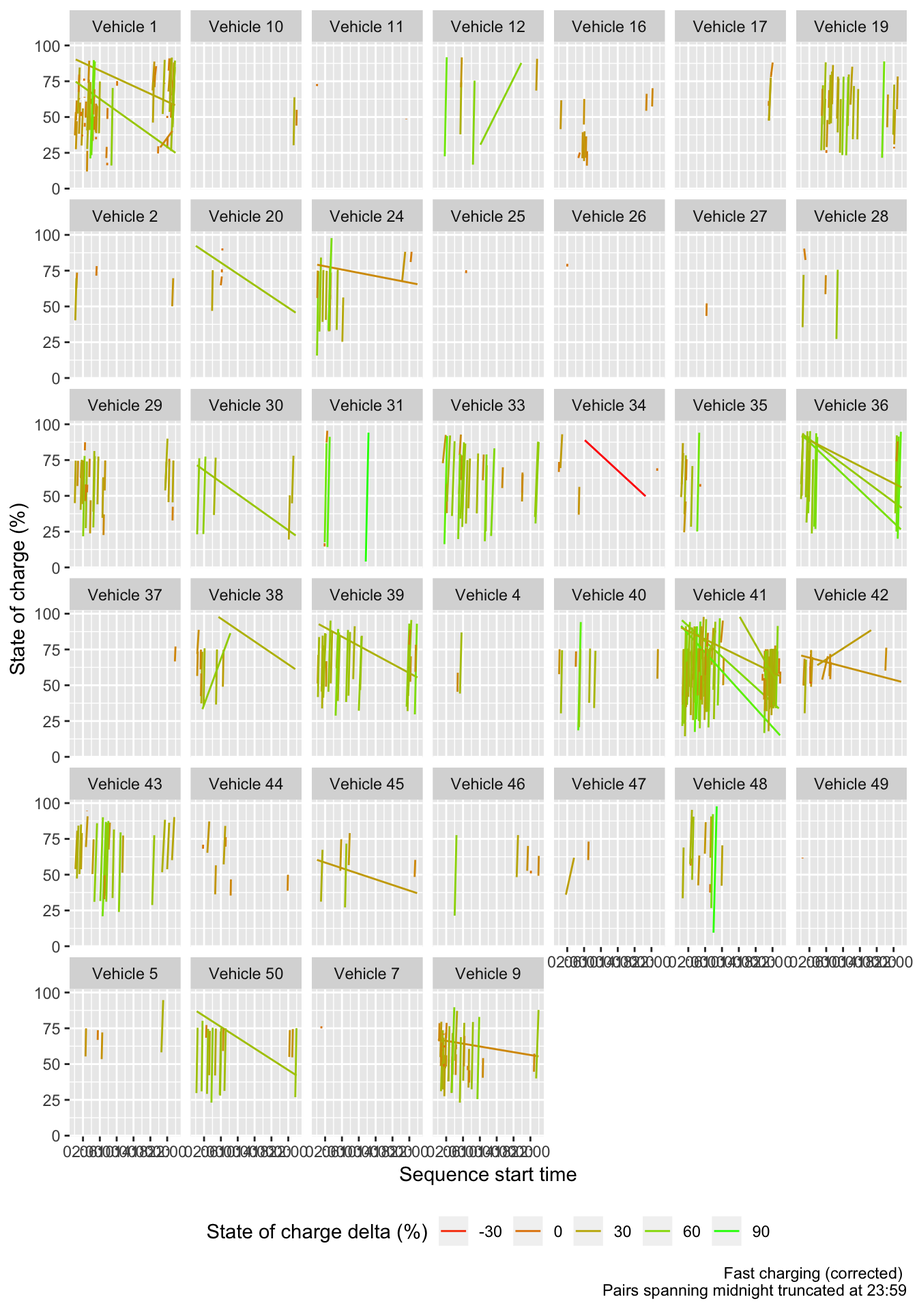
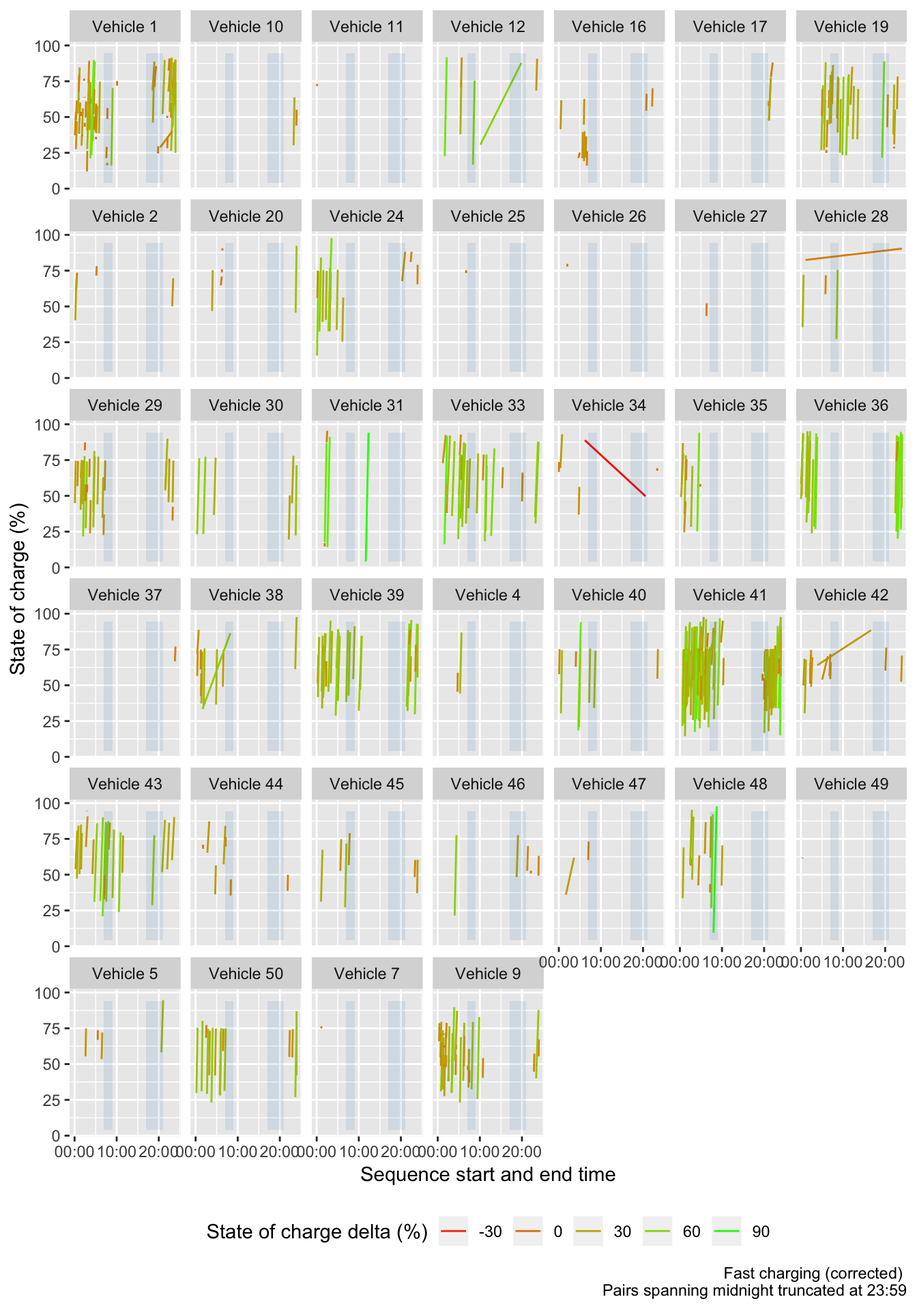
moved coding of peakPeriod; fixed debug plots to correctly truncate chage events that span midnight

diff --git a/reports/fullReport/EVBB_report_v1.html b/reports/fullReport/EVBB_report_v1.html
@@ -303,7 +303,7 @@ div.tocify {
 <h1 class="title toc-ignore">Analysis of electric vehicle usage patterns in New Zealand</h1>
 <h3 class="subtitle"><em>Statistical Report</em></h3>
 <h4 class="author"><em>Rafferty Parker and Ben Anderson (<a href="mailto:ben.anderson@otago.ac.nz">ben.anderson@otago.ac.nz</a>), <a href="https://www.otago.ac.nz/centre-sustainability/">Centre for Sustainability</a>, University of Otago</em></h4>
-<h4 class="date"><em>Last run at: 2019-04-16 15:25:07</em></h4>
+<h4 class="date"><em>Last run at: 2019-04-16 23:16:06</em></h4>
 
 </div>
 
@@ -1119,9 +1119,9 @@ Figure 4.3: Median charging power demand (kW) by time of day
 </div>
 <p>Figure <a href="#fig:meanChargeByTimeMonth">4.4</a> repeats the median power-based analysis for ‘Standard charging’ but shows the results by month. While the sample size is probably too small to draw robust conclusions there appear to be differences between months with December showing few discernable peaks and September and January showing much lower daytime weekday charging. In addition, weekdays and weekends are much more similar in November and December.</p>
 <div class="figure"><span id="fig:meanChargeByTimeMonth"></span>
-<img src="EVBB_report_v1_files/figure-html/meanChargeByTimeMonth-1.png" alt="Median charging power demand (kW) by time of day" width="672" />
+<img src="EVBB_report_v1_files/figure-html/meanChargeByTimeMonth-1.png" alt="Median charging power demand (kW) by time of day and month" width="672" />
 <p class="caption">
-Figure 4.4: Median charging power demand (kW) by time of day
+Figure 4.4: Median charging power demand (kW) by time of day and month
 </p>
 </div>
 <p>On face value the results suggest that EVs could be placing additional power demand on local and national networks during well-known periods of peak demand although this appears to vary by month for this small sample of EV owners.</p>
@@ -1362,23 +1362,23 @@ Figure 6.4: Mean state of charge at beginning of charge sequence by time of day 
 ##  n obs: 1515812 
 ##  n variables: 8 
 ## 
-## ── Variable type:character ──────────────────────────────────────────────────────────────────────────────────────────────────────────────────────────────────────
+## ── Variable type:character ─────────────────────────────────────────────────────────────────────────────────────────────────
 ##     variable missing complete       n min max empty n_unique
 ##  day_of_week       0  1515812 1515812   6   9     0        7
 ##           id       0  1515812 1515812  32  32     0       50
 ##        month       0  1515812 1515812   3   3     0       10
 ## 
-## ── Variable type:Date ───────────────────────────────────────────────────────────────────────────────────────────────────────────────────────────────────────────
+## ── Variable type:Date ──────────────────────────────────────────────────────────────────────────────────────────────────────
 ##  variable missing complete       n        min        max     median
 ##      date       0  1515812 1515812 2018-04-05 2019-01-25 2018-11-09
 ##  n_unique
 ##       293
 ## 
-## ── Variable type:difftime ───────────────────────────────────────────────────────────────────────────────────────────────────────────────────────────────────────
+## ── Variable type:difftime ──────────────────────────────────────────────────────────────────────────────────────────────────
 ##  variable missing complete       n    min        max     median n_unique
 ##      time       0  1515812 1515812 0 secs 86399 secs 44827 secs    86400
 ## 
-## ── Variable type:numeric ────────────────────────────────────────────────────────────────────────────────────────────────────────────────────────────────────────
+## ── Variable type:numeric ───────────────────────────────────────────────────────────────────────────────────────────────────
 ##                 variable missing complete       n    mean      sd     p0
 ##          charge_power_kw       0  1515812 1515812    1.73   71         0
 ##              odometer_km 1000156   515656 1515812 7290.5  7954.38 -62920
@@ -1394,33 +1394,36 @@ Figure 6.4: Mean state of charge at beginning of charge sequence by time of day 
 <pre class="r"><code>skimr::skim(cleanDT)</code></pre>
 <pre><code>## Skim summary statistics
 ##  n obs: 1291881 
-##  n variables: 15 
+##  n variables: 17 
 ## 
-## ── Variable type:character ──────────────────────────────────────────────────────────────────────────────────────────────────────────────────────────────────────
+## ── Variable type:character ─────────────────────────────────────────────────────────────────────────────────────────────────
 ##    variable missing complete       n min max empty n_unique
 ##  chargeFlag      12  1291869 1291881  17  25     0        5
 ##  chargeType       0  1291881 1291881  12  17     0        3
 ##        dvID       0  1291881 1291881   9  10     0       44
 ##          id       0  1291881 1291881  32  32     0       44
+##  peakPeriod       0  1291881 1291881   8  12     0        3
 ##    weekdays       0  1291881 1291881   8   8     0        2
 ## 
-## ── Variable type:Date ───────────────────────────────────────────────────────────────────────────────────────────────────────────────────────────────────────────
+## ── Variable type:Date ──────────────────────────────────────────────────────────────────────────────────────────────────────
 ##  variable missing complete       n        min        max     median
 ##      date       0  1291881 1291881 2018-05-12 2019-01-25 2018-11-13
 ##  n_unique
 ##       249
 ## 
-## ── Variable type:difftime ───────────────────────────────────────────────────────────────────────────────────────────────────────────────────────────────────────
+## ── Variable type:difftime ──────────────────────────────────────────────────────────────────────────────────────────────────
 ##      variable missing complete       n    min          max   median
 ##  dateTimeDiff      44  1291837 1291881 0 secs 4912664 secs  50 secs
 ##         qHour       0  1291881 1291881 0 secs   85500 secs 11:45:00
+##     startTime       0  1291881 1291881 0 secs   86399 secs 12:24:49
 ##          time       0  1291881 1291881 0 secs   86399 secs 11:50:53
 ##  n_unique
 ##     13443
 ##        96
 ##     86400
+##     86400
 ## 
-## ── Variable type:factor ─────────────────────────────────────────────────────────────────────────────────────────────────────────────────────────────────────────
+## ── Variable type:factor ────────────────────────────────────────────────────────────────────────────────────────────────────
 ##     variable missing complete       n n_unique
 ##  day_of_week       0  1291881 1291881        7
 ##        month       0  1291881 1291881        9
@@ -1428,7 +1431,7 @@ Figure 6.4: Mean state of charge at beginning of charge sequence by time of day 
 ##  Fri: 206422, Wed: 206292, Thu: 205166, Mon: 190389    TRUE
 ##  Nov: 298332, Oct: 280869, Dec: 272272, Jan: 188498   FALSE
 ## 
-## ── Variable type:numeric ────────────────────────────────────────────────────────────────────────────────────────────────────────────────────────────────────────
+## ── Variable type:numeric ───────────────────────────────────────────────────────────────────────────────────────────────────
 ##         variable missing complete       n    mean      sd     p0     p25
 ##  charge_power_kw       0  1291881 1291881    1.48    2.89      0    0   
 ##      odometer_km  857152   434729 1291881 6801.77 7943.05 -62920 1698   
@@ -1438,7 +1441,7 @@ Figure 6.4: Mean state of charge at beginning of charge sequence by time of day 
 ##  4123    8816    69394    ▁▁▁▇▇▂▁▁
 ##    69.73   82.26    98.1  ▁▁▂▃▆▇▇▇
 ## 
-## ── Variable type:POSIXct ────────────────────────────────────────────────────────────────────────────────────────────────────────────────────────────────────────
+## ── Variable type:POSIXct ───────────────────────────────────────────────────────────────────────────────────────────────────
 ##  variable missing complete       n        min        max     median
 ##  dateTime       0  1291881 1291881 2018-05-12 2019-01-25 2018-11-13
 ##  n_unique
@@ -1447,9 +1450,9 @@ Figure 6.4: Mean state of charge at beginning of charge sequence by time of day 
 <pre class="r"><code>skimr::skim(firstCleanDT)</code></pre>
 <pre><code>## Skim summary statistics
 ##  n obs: 3299 
-##  n variables: 19 
+##  n variables: 22 
 ## 
-## ── Variable type:character ──────────────────────────────────────────────────────────────────────────────────────────────────────────────────────────────────────
+## ── Variable type:character ─────────────────────────────────────────────────────────────────────────────────────────────────
 ##         variable missing complete    n min max empty n_unique
 ##       chargeFlag       0     3299 3299  25  25     0        1
 ##       chargeType       0     3299 3299  13  17     0        2
@@ -1457,25 +1460,30 @@ Figure 6.4: Mean state of charge at beginning of charge sequence by time of day 
 ##             dvID       0     3299 3299   9  10     0       43
 ##          endType       0     3299 3299  13  17     0        2
 ##               id       0     3299 3299  32  32     0       43
+##       peakPeriod       0     3299 3299   8  12     0        3
 ##         weekdays       0     3299 3299   8   8     0        2
 ## 
-## ── Variable type:Date ───────────────────────────────────────────────────────────────────────────────────────────────────────────────────────────────────────────
+## ── Variable type:Date ──────────────────────────────────────────────────────────────────────────────────────────────────────
 ##  variable missing complete    n        min        max     median n_unique
 ##      date       0     3299 3299 2018-05-12 2019-01-17 2018-11-09      201
 ## 
-## ── Variable type:difftime ───────────────────────────────────────────────────────────────────────────────────────────────────────────────────────────────────────
+## ── Variable type:difftime ──────────────────────────────────────────────────────────────────────────────────────────────────
 ##      variable missing complete    n                   min
 ##  dateTimeDiff       0     3299 3299  0 secs              
+##       endTime       0     3299 3299  1 secs              
 ##  pairDuration       0     3299 3299       0.01666667 mins
 ##         qHour       0     3299 3299  0 secs              
+##     startTime       0     3299 3299 31 secs              
 ##          time       0     3299 3299 40 secs              
 ##                   max             median n_unique
 ##  230025 secs          305 secs               1804
+##   86395 secs          13:06:27               3215
 ##         1616.717 mins      178.8167 mins     3024
 ##   85500 secs          15:15:00                 96
+##   86392 secs          10:15:44               3170
 ##   86246 secs          15:22:14               3167
 ## 
-## ── Variable type:factor ─────────────────────────────────────────────────────────────────────────────────────────────────────────────────────────────────────────
+## ── Variable type:factor ────────────────────────────────────────────────────────────────────────────────────────────────────
 ##             variable missing complete    n n_unique
 ##  chargeTypeCorrected       0     3299 3299        2
 ##          day_of_week       0     3299 3299        7
@@ -1485,7 +1493,7 @@ Figure 6.4: Mean state of charge at beginning of charge sequence by time of day 
 ##  Fri: 524, Wed: 502, Thu: 490, Mon: 489    TRUE
 ##  Nov: 791, Oct: 743, Dec: 702, Sep: 458   FALSE
 ## 
-## ── Variable type:numeric ────────────────────────────────────────────────────────────────────────────────────────────────────────────────────────────────────────
+## ── Variable type:numeric ───────────────────────────────────────────────────────────────────────────────────────────────────
 ##         variable missing complete    n    mean      sd        p0     p25
 ##  charge_power_kw       0     3299 3299    7.31   12.68      0.5     1.62
 ##      odometer_km    2555      744 3299 5649.15 7459.93 -52352    1289.25
@@ -1495,7 +1503,7 @@ Figure 6.4: Mean state of charge at beginning of charge sequence by time of day 
 ##  3435    7345.75 54443    ▁▁▁▂▇▁▁▁
 ##    48.41   59.63    98.1  ▁▃▆▇▇▃▂▂
 ## 
-## ── Variable type:POSIXct ────────────────────────────────────────────────────────────────────────────────────────────────────────────────────────────────────────
+## ── Variable type:POSIXct ───────────────────────────────────────────────────────────────────────────────────────────────────
 ##  variable missing complete    n        min        max     median n_unique
 ##  dateTime       0     3299 3299 2018-05-12 2019-01-17 2018-11-09     3299</code></pre>
 </div>
@@ -1923,10 +1931,6 @@ NA
 <p>We also test the patterns of charging that this classification produces. We do this first for ‘standard’ charging sequences and then for ‘fast’ charging sequences.</p>
 <pre class="r"><code># debug sequences visually ----
 
-# set start and end time in hms ----
-firstLastDT &lt;- firstLastDT[, startTime := as.hms(dateTime)]
-firstLastDT &lt;- firstLastDT[, endTime := as.hms(shift(dateTime, type = &quot;lead&quot;))]
-
 # start &amp; end charge rate ----
 firstLastDT &lt;- firstLastDT[, startChargekW := charge_power_kw]
 firstLastDT &lt;- firstLastDT[, endChargekW := shift(charge_power_kw, type = &quot;lead&quot;)]
@@ -1939,42 +1943,48 @@ firstLastDT &lt;- firstLastDT[, endSoC_pc := shift(SoC_percent, type = &quot;lea
 firstLastDT &lt;- firstLastDT[, notDuration := difftime(endTime, startTime, units=&#39;mins&#39;), by = id] # set all within id, if this is -ve then it spanned midnight
 # fix # 1
 firstLastDT &lt;- firstLastDT[, endTimeTrunc := ifelse(notDuration &lt; 0, 
-                                                   hms::as.hms(&quot;23:59:00&quot;),
+                                                   hms::parse_hm(&quot;23:59&quot;),
                                                    endTime)] # this truncates charge periods that span midnight and ends then at midnight for clarity. Of course this makes a hash of early morning charging patterns... 
 
 # charge rate &amp; state of charge deltas ----
 firstLastDT &lt;- firstLastDT[, chargePowerDelta := endChargekW - charge_power_kw] # should be -ve where we start high and end low
 firstLastDT &lt;- firstLastDT[, SoC_pcDelta := endSoC_pc - startSoC_pc] # should be -ve where we start high and end low</code></pre>
 <p>Figure <a href="#fig:checkStdSequenceskW">8.1</a> plots the first and last charge observation in a sequence for all pairs and for all vehicles where events were classified as (corrected) ‘standard’ charges. The y value is charging rate (kW) at the start and end of the sequence. Colour (red end of the scale) is used to highlight pairs which show an ‘odd’ pattern - e.g. the charge rate increased.</p>
-<pre class="r"><code># plotting function
+<pre class="r"><code># format labels function
+# https://stackoverflow.com/questions/53804629/how-to-format-difftime-as-hhmm-in-ggplot2
+format_hm &lt;- function(sec) stringr::str_sub(format(sec), end = -4L)
+# plotting function
 makeSeqChargePlot &lt;- function(dt, y = y, yend = yend, colour = colour){
   p &lt;- ggplot2::ggplot(dt) +
-    geom_segment(aes(x = as.POSIXct(startTime), 
-                     xend = as.POSIXct(endTime), 
-                     y = get(y), 
-                     yend = get(yend), colour = get(colour))) +
-    labs(x = &quot;Sequence start time&quot;) + 
+    geom_segment(aes(x = hms::as.hms(startTime), # start x value
+                     xend = hms::as.hms(endTimeTrunc), # end x value
+                     y = get(y), # start y value
+                     yend = get(yend), # end y value
+                     colour = get(colour))) + # colour to highlight some value
+    labs(x = &quot;Sequence start and end time&quot;) + 
     theme(legend.position = &quot;bottom&quot;) +
-    scale_x_datetime(date_labels = &quot;%H:%M&quot;, date_breaks = &quot;4 hours&quot;) +
+    scale_x_time(labels = format_hm) +
     facet_wrap(. ~ dvID)
   return(p)
 }
 
 dt &lt;- firstLastDT[chargeTypeCorrected %like% &quot;Standard&quot; &amp; 
                     #startChargekW &lt; 5 &amp; #use this to filter out the few that seem to have 6kW chargers (they could also be mis-coded &#39;fast&#39; charging)
-                    chargeFlag %like% &quot;First&quot; ,
-                  .(startTime, endTime, endTimeTrunc, chargeTypeCorrected,startChargekW, endChargekW,
-                    notDuration, chargePowerDelta, startSoC_pc, endSoC_pc, SoC_pcDelta, dvID)]
+                    chargeFlag %like% &quot;First&quot;]
 
 p &lt;- makeSeqChargePlot(dt, y = &quot;startChargekW&quot;, 
                        yend = &quot;endChargekW&quot;, 
                        colour =  &quot;chargePowerDelta&quot;) 
 p &lt;- p + 
   labs(y = &quot;Charging rate (kW)&quot;,
-       caption = &quot;Standard charging (corrected) \n Pairs spanning midnight truncated at 23:59&quot;) +
+       caption = &quot;Standard charging (corrected) \n 
+       Pairs spanning midnight truncated at 23:59 \n
+       Peak periods shaded&quot;) +
   guides(colour = guide_legend(title = &quot;Charge rate delta (kW)&quot;)) +
   scale_color_continuous(low = &quot;green&quot;, high = &quot;red&quot;) # highlight ones that went up
-p</code></pre>
+yMin &lt;- min(dt$startChargekW) # might not quite work if end is higher...
+yMax &lt;- max(dt$startChargekW) # might not quite work if end is higher...
+addPeaks(p)</code></pre>
 <div class="figure"><span id="fig:checkStdSequenceskW"></span>
 <img src="EVBB_report_v1_files/figure-html/checkStdSequenceskW-1.png" alt="Standard charging (corrected) - rate of charge" width="672" />
 <p class="caption">
@@ -1982,7 +1992,19 @@ Figure 8.1: Standard charging (corrected) - rate of charge
 </p>
 </div>
 <pre class="r"><code>#ggsave(&quot;plots/standardChargePairs_kW_LineSegments.png&quot;, p, height = 10)</code></pre>
-<p>Figure <a href="#fig:checkStdSequencesSoC">8.2</a> uses the same approach but in this case the y value is charging rate (kW) at the start and end of the sequence. Colour (red end of the scale) is used to highlight pairs which show an ‘odd’ pattern - e.g. the battery state of charge decreased.</p>
+<p>Figure <a href="#fig:stdPowerDeltaDensity">8.2</a> shows the distribution of charge power deltas by peak/not peak period (of start time) for ‘standard’ charge events. This suggests that the majority of charging events either hold power constant or decline over time with some sort of shoulder effect. A few increase. More of those which start in the ‘evening’ and ‘not peak’ period seem to hold the power level constant, presumably because the battery capacity is slightly lower at this time following day-time use.</p>
+<pre class="r"><code>p &lt;- ggplot2::ggplot(dt, aes(x = chargePowerDelta, colour = peakPeriod)) +
+  geom_density(alpha = 0.5) +
+  guides(colour = guide_legend(title = &quot;Peak period:&quot;)) +
+  labs(x = &quot;Change in power from start to end (kW)&quot;)
+p</code></pre>
+<div class="figure"><span id="fig:stdPowerDeltaDensity"></span>
+<img src="EVBB_report_v1_files/figure-html/stdPowerDeltaDensity-1.png" alt="Histogram of charge power deltas by peak/not peak period" width="672" />
+<p class="caption">
+Figure 8.2: Histogram of charge power deltas by peak/not peak period
+</p>
+</div>
+<p>Figure <a href="#fig:checkStdSequencesSoC">8.3</a> uses the same approach but in this case the y value is charging rate (kW) at the start and end of the sequence. Colour (red end of the scale) is used to highlight pairs which show an ‘odd’ pattern - e.g. the battery state of charge decreased.</p>
 <pre class="r"><code>#dt &lt;- dt[, SoC_pcDelta := SoC_pcDelta * -1] # invert so big drops become red in plot
 p &lt;- makeSeqChargePlot(dt, y = &quot;startSoC_pc&quot;, 
                        yend = &quot;endSoC_pc&quot;, 
@@ -1992,20 +2014,20 @@ p &lt;- p +
        caption = &quot;Standard charging (corrected) \n Pairs spanning midnight truncated at 23:59&quot;) +
   guides(colour = guide_legend(title = &quot;State of charge delta (%)&quot;)) +
   scale_color_continuous(low = &quot;red&quot;, high = &quot;green&quot;) # highlight ones that went down
-p</code></pre>
+yMin &lt;- min(dt$startSoC_pc) # might not quite work if end is higher...
+yMax &lt;- max(dt$startSoC_pc) # might not quite work if end is higher...
+addPeaks(p)</code></pre>
 <div class="figure"><span id="fig:checkStdSequencesSoC"></span>
 <img src="EVBB_report_v1_files/figure-html/checkStdSequencesSoC-1.png" alt="Standard charging (corrected) - state of charge" width="672" />
 <p class="caption">
-Figure 8.2: Standard charging (corrected) - state of charge
+Figure 8.3: Standard charging (corrected) - state of charge
 </p>
 </div>
 <pre class="r"><code>#ggsave(&quot;plots/standardChargePairs_SoC_LineSegments.png&quot;, p, height = 10)</code></pre>
-<p>Figure <a href="#fig:checkFastSequenceskW">8.3</a> and Figure <a href="#fig:checkFastSequencesSoC">8.4</a> repeat these plots but for (corrected) ‘fast’ charge events.</p>
+<p>Figure <a href="#fig:checkFastSequenceskW">8.4</a> and Figure <a href="#fig:checkFastSequencesSoC">8.5</a> repeat these plots but for (corrected) ‘fast’ charge events.</p>
 <pre class="r"><code>dt &lt;- firstLastDT[chargeTypeCorrected %like% &quot;Fast&quot; &amp; 
                     #startChargekW &lt; 5 &amp; #use this to filter out the few that seem to have 6kW chargers (or they might be &#39;fast&#39; charging too)
-                    chargeFlag %like% &quot;First&quot;,
-                  .(startTime, endTime, endTimeTrunc, chargeTypeCorrected,startChargekW, endChargekW,
-                    notDuration, chargePowerDelta, startSoC_pc, endSoC_pc, SoC_pcDelta, dvID)]
+                    chargeFlag %like% &quot;First&quot;]
 
 p &lt;- makeSeqChargePlot(dt, y = &quot;startChargekW&quot;, 
                        yend = &quot;endChargekW&quot;, 
@@ -2015,11 +2037,13 @@ p &lt;- p +
        caption = &quot;Fast charging (corrected) \n Pairs spanning midnight truncated at 23:59&quot;) +
   guides(colour = guide_legend(title = &quot;Charge rate delta (kW)&quot;)) +
   scale_color_continuous(low = &quot;green&quot;, high = &quot;red&quot;) # highlight ones that went up
-p</code></pre>
+yMin &lt;- min(dt$startChargekW) # might not quite work if end is higher...
+yMax &lt;- max(dt$startChargekW) # might not quite work if end is higher...
+addPeaks(p)</code></pre>
 <div class="figure"><span id="fig:checkFastSequenceskW"></span>
 <img src="EVBB_report_v1_files/figure-html/checkFastSequenceskW-1.png" alt="Fast charging (corrected) - rate of charge" width="672" />
 <p class="caption">
-Figure 8.3: Fast charging (corrected) - rate of charge
+Figure 8.4: Fast charging (corrected) - rate of charge
 </p>
 </div>
 <pre class="r"><code>#ggsave(&quot;plots/fastChargePairs_kW_LineSegments.png&quot;, p, height = 10)</code></pre>
@@ -2032,14 +2056,29 @@ p &lt;- p +
        caption = &quot;Fast charging (corrected) \n Pairs spanning midnight truncated at 23:59&quot;) +
   guides(colour = guide_legend(title = &quot;State of charge delta (%)&quot;)) +
   scale_color_continuous(low = &quot;red&quot;, high = &quot;green&quot;) # highlight ones that went down
-p</code></pre>
+yMin &lt;- min(dt$startSoC_pc) # might not quite work if end is higher...
+yMax &lt;- max(dt$startSoC_pc) # might not quite work if end is higher...
+addPeaks(p)</code></pre>
 <div class="figure"><span id="fig:checkFastSequencesSoC"></span>
 <img src="EVBB_report_v1_files/figure-html/checkFastSequencesSoC-1.png" alt="Fast charging (corrected) - state of charge" width="672" />
 <p class="caption">
-Figure 8.4: Fast charging (corrected) - state of charge
+Figure 8.5: Fast charging (corrected) - state of charge
 </p>
 </div>
 <pre class="r"><code>#ggsave(&quot;plots/fastChargePairs_SoC_LineSegments.png&quot;, p, height = 10)</code></pre>
+<p>Figure <a href="#fig:fastPowerDeltaDensity">8.6</a> shows the distribution of charge power deltas by peak/not peak period (of start time) for ‘fast’ charge events. This suggests that the majority of charging events either hold power constant or decline over time with some sort of shoulder effect. A few increase. More of those which start in the ‘evening’ and ‘not peak’ period seem to hold the power level constant, presumably because the battery capacity is slightly lower at this time following day-time use.</p>
+<pre class="r"><code>p &lt;- ggplot2::ggplot(dt, aes(x = chargePowerDelta, colour = peakPeriod)) +
+  geom_histogram(alpha = 0.5) +
+  guides(colour = guide_legend(title = &quot;Peak period:&quot;)) +
+  labs(x = &quot;Change in power from start to end (kW)&quot;)
+p</code></pre>
+<pre><code>## `stat_bin()` using `bins = 30`. Pick better value with `binwidth`.</code></pre>
+<div class="figure"><span id="fig:fastPowerDeltaDensity"></span>
+<img src="EVBB_report_v1_files/figure-html/fastPowerDeltaDensity-1.png" alt="Histogram of state of charge deltas by peak/not peak period" width="672" />
+<p class="caption">
+Figure 8.6: Histogram of state of charge deltas by peak/not peak period
+</p>
+</div>
 </div>
 <div id="charge-type" class="section level3">
 <h3><span class="header-section-number">8.2.2</span> Charge type</h3>
